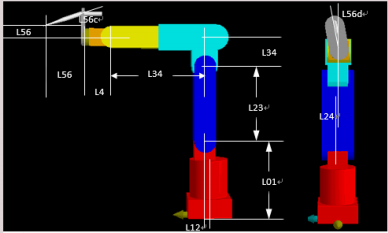
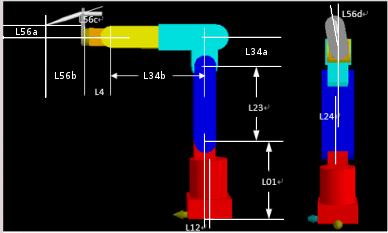
1.结构参数页面优化

diff --git a/qml/App_HAMOUI/settingpages/StructConfigs.qml b/qml/App_HAMOUI/settingpages/StructConfigs.qml
@@ -10,7 +10,7 @@ Item {
     height: parent.height
     QtObject{
         id:pdata
-        property int configNameWidth: 80
+        property int configNameWidth: 45
     }
     ICSettingConfigsScope{
         onConfigValueChanged: {
@@ -101,7 +101,7 @@ Item {
             ICConfigEdit{
                 id:struct3
                 configNameWidth: pdata.configNameWidth
-                configName: qsTr("Machine Struct 3");
+                configName: qsTr("L01");
                 unit: qsTr("mm")
                 configAddr: "s_rw_0_32_3_158"
             }
@@ -117,7 +117,7 @@ Item {
             ICConfigEdit{
                 id:struct5
                 configNameWidth: pdata.configNameWidth
-                configName: qsTr("Machine Struct 5");
+                configName: qsTr("L23");
                 unit: qsTr("mm")
                 configAddr: "s_rw_0_32_3_160"
             }
@@ -133,7 +133,7 @@ Item {
             ICConfigEdit{
                 id:struct7
                 configNameWidth: pdata.configNameWidth
-                configName: qsTr("Machine Struct 7");
+                configName: qsTr("L34a");
                 unit: qsTr("mm")
                 configAddr: "s_rw_0_32_3_162"
             }
@@ -141,7 +141,7 @@ Item {
             ICConfigEdit{
                 id:struct8
                 configNameWidth: pdata.configNameWidth
-                configName: qsTr("Machine Struct 8");
+                configName: qsTr("L34b");
                 unit: qsTr("mm")
                 configAddr: "s_rw_0_32_3_163"
             }
@@ -149,10 +149,25 @@ Item {
             ICConfigEdit{
                 id:struct9
                 configNameWidth: pdata.configNameWidth
-                configName: qsTr("Machine Struct 9");
+                configName: qsTr("L4");
                 unit: qsTr("mm")
                 configAddr: "s_rw_0_32_3_164"
             }
+            ICConfigEdit{
+                id:struct10
+                configNameWidth: pdata.configNameWidth
+                configName: qsTr("L12");
+                unit: qsTr("mm")
+                configAddr: "s_rw_0_32_3_174"
+            }
+            ICConfigEdit{
+                id:struct11
+                configNameWidth: pdata.configNameWidth
+                configName: qsTr("L24");
+                unit: qsTr("mm")
+                configAddr: "s_rw_0_32_3_175"
+            }
+
             ICConfigEdit{
                 id:axis1Diff
                 configNameWidth: pdata.configNameWidth
@@ -162,48 +177,49 @@ Item {
             }
             ICConfigEdit{
                 id:axis2Diff
-                configNameWidth: pdata.configNameWidth
+                configNameWidth: axis1Diff.configNameWidth
                 configName: qsTr("Axis2 Diff");
                 unit: qsTr("°")
                 configAddr: "s_rw_0_32_3_169"
             }
             ICConfigEdit{
                 id:axis3Diff
-                configNameWidth: pdata.configNameWidth
+                configNameWidth: axis1Diff.configNameWidth
                 configName: qsTr("Axis3 Diff");
                 unit: qsTr("°")
                 configAddr: "s_rw_0_32_3_170"
             }
             ICConfigEdit{
                 id:axis4Diff
-                configNameWidth: pdata.configNameWidth
+                configNameWidth: axis1Diff.configNameWidth
                 configName: qsTr("Axis4 Diff");
                 unit: qsTr("°")
                 configAddr: "s_rw_0_32_3_171"
             }
             ICConfigEdit{
                 id:axis5Diff
-                configNameWidth: pdata.configNameWidth
+                configNameWidth: axis1Diff.configNameWidth
                 configName: qsTr("Axis5 Diff");
                 unit: qsTr("°")
                 configAddr: "s_rw_0_32_3_172"
             }
             ICConfigEdit{
                 id:axis6Diff
-                configNameWidth: pdata.configNameWidth
+                configNameWidth: axis1Diff.configNameWidth
                 configName: qsTr("Axis6 Diff");
                 unit: qsTr("°")
                 configAddr: "s_rw_0_32_3_173"
             }
         }
-        Column{
-
+        Grid{
+            rows:4
+            spacing: 12
+            flow: Grid.TopToBottom
             anchors.left: structGuideImg.right
             anchors.leftMargin: 12
-            spacing: 12
             ICConfigEdit{
                 id:sAcc1
-                configNameWidth: pdata.configNameWidth
+                configNameWidth: pdata.configNameWidth + 40
                 configName: qsTr("SACC 1");
                 unit: qsTr("%")
                 configAddr: "s_rw_0_8_0_165"
@@ -211,7 +227,7 @@ Item {
 
             ICConfigEdit{
                 id:sAcc2
-                configNameWidth: pdata.configNameWidth
+                configNameWidth: sAcc1.configNameWidth
                 configName: qsTr("SACC 2");
                 unit: qsTr("%")
                 configAddr: "s_rw_8_8_0_165"
@@ -219,7 +235,7 @@ Item {
 
             ICConfigEdit{
                 id:sAcc3
-                configNameWidth: pdata.configNameWidth
+                configNameWidth: sAcc1.configNameWidth
                 configName: qsTr("SDEC 1");
                 unit: qsTr("%")
                 configAddr: "s_rw_16_8_0_165"
@@ -227,28 +243,28 @@ Item {
 
             ICConfigEdit{
                 id:sAcc4
-                configNameWidth: pdata.configNameWidth
+                configNameWidth: sAcc1.configNameWidth
                 configName: qsTr("SDEC 2");
                 unit: qsTr("%")
                 configAddr: "s_rw_24_8_0_165"
             }
             ICConfigEdit{
                 id:sAccTime
-                configNameWidth: pdata.configNameWidth
+                configNameWidth: sAcc1.configNameWidth
                 configName: qsTr("SACC Time");
                 unit: qsTr("m/s²")
                 configAddr: "s_rw_0_16_3_166"
             }
             ICConfigEdit{
                 id:sDecTime
-                configNameWidth: pdata.configNameWidth
+                configNameWidth: sAcc1.configNameWidth
                 configName: qsTr("SDec Time");
                 unit: qsTr("m/s²")
                 configAddr: "s_rw_16_16_3_166"
             }
             ICConfigEdit{
                 id:pathMaxSpeed
-                configNameWidth: pdata.configNameWidth
+                configNameWidth: sAcc1.configNameWidth
                 configName: qsTr("SACC Max");
                 unit: qsTr("m/s")
                 configAddr: "s_rw_0_16_3_167"

diff --git a/qml/App_HAMOUI/translations/HAMOUI_zh_CN.ts b/qml/App_HAMOUI/translations/HAMOUI_zh_CN.ts
@@ -4627,7 +4627,7 @@ please chose!</source>
     </message>
     <message>
         <source>Total:</source>
-        <translation type="unfinished"></translation>
+        <translation>总共:</translation>
     </message>
 </context>
 <context>
@@ -4638,7 +4638,7 @@ please chose!</source>
     </message>
     <message>
         <source>Machine Struct 1</source>
-        <translation>结构参数1</translation>
+        <translation>结构1</translation>
     </message>
     <message>
         <source>mm</source>
@@ -4646,7 +4646,7 @@ please chose!</source>
     </message>
     <message>
         <source>Machine Struct 2</source>
-        <translation>结构参数2</translation>
+        <translation>结构2</translation>
     </message>
     <message>
         <source>Machine Struct 3</source>
@@ -4654,7 +4654,7 @@ please chose!</source>
     </message>
     <message>
         <source>Machine Struct 4</source>
-        <translation>结构参数4</translation>
+        <translation>结构4</translation>
     </message>
     <message>
         <source>Machine Struct 5</source>
@@ -4662,7 +4662,7 @@ please chose!</source>
     </message>
     <message>
         <source>Machine Struct 6</source>
-        <translation>结构参数6</translation>
+        <translation>结构6</translation>
     </message>
     <message>
         <source>Machine Struct 7</source>
@@ -4718,7 +4718,7 @@ please chose!</source>
     </message>
     <message>
         <source>Axis1 Diff</source>
-        <translation>轴1偏角</translation>
+        <translation>偏角1</translation>
     </message>
     <message>
         <source>°</source>
@@ -4726,23 +4726,51 @@ please chose!</source>
     </message>
     <message>
         <source>Axis2 Diff</source>
-        <translation>轴2偏角</translation>
+        <translation>偏角2</translation>
     </message>
     <message>
         <source>Axis3 Diff</source>
-        <translation>轴3偏角</translation>
+        <translation>偏角3</translation>
     </message>
     <message>
         <source>Axis4 Diff</source>
-        <translation>轴4偏角</translation>
+        <translation>偏角4</translation>
     </message>
     <message>
         <source>Axis5 Diff</source>
-        <translation>轴5偏角</translation>
+        <translation>偏角5</translation>
     </message>
     <message>
         <source>Axis6 Diff</source>
-        <translation>轴6偏角</translation>
+        <translation>偏角6</translation>
+    </message>
+    <message>
+        <source>L01</source>
+        <translation type="unfinished"></translation>
+    </message>
+    <message>
+        <source>L23</source>
+        <translation type="unfinished"></translation>
+    </message>
+    <message>
+        <source>L34a</source>
+        <translation type="unfinished"></translation>
+    </message>
+    <message>
+        <source>L34b</source>
+        <translation type="unfinished"></translation>
+    </message>
+    <message>
+        <source>L4</source>
+        <translation type="unfinished"></translation>
+    </message>
+    <message>
+        <source>L12</source>
+        <translation type="unfinished"></translation>
+    </message>
+    <message>
+        <source>L24</source>
+        <translation type="unfinished"></translation>
     </message>
 </context>
 <context>
